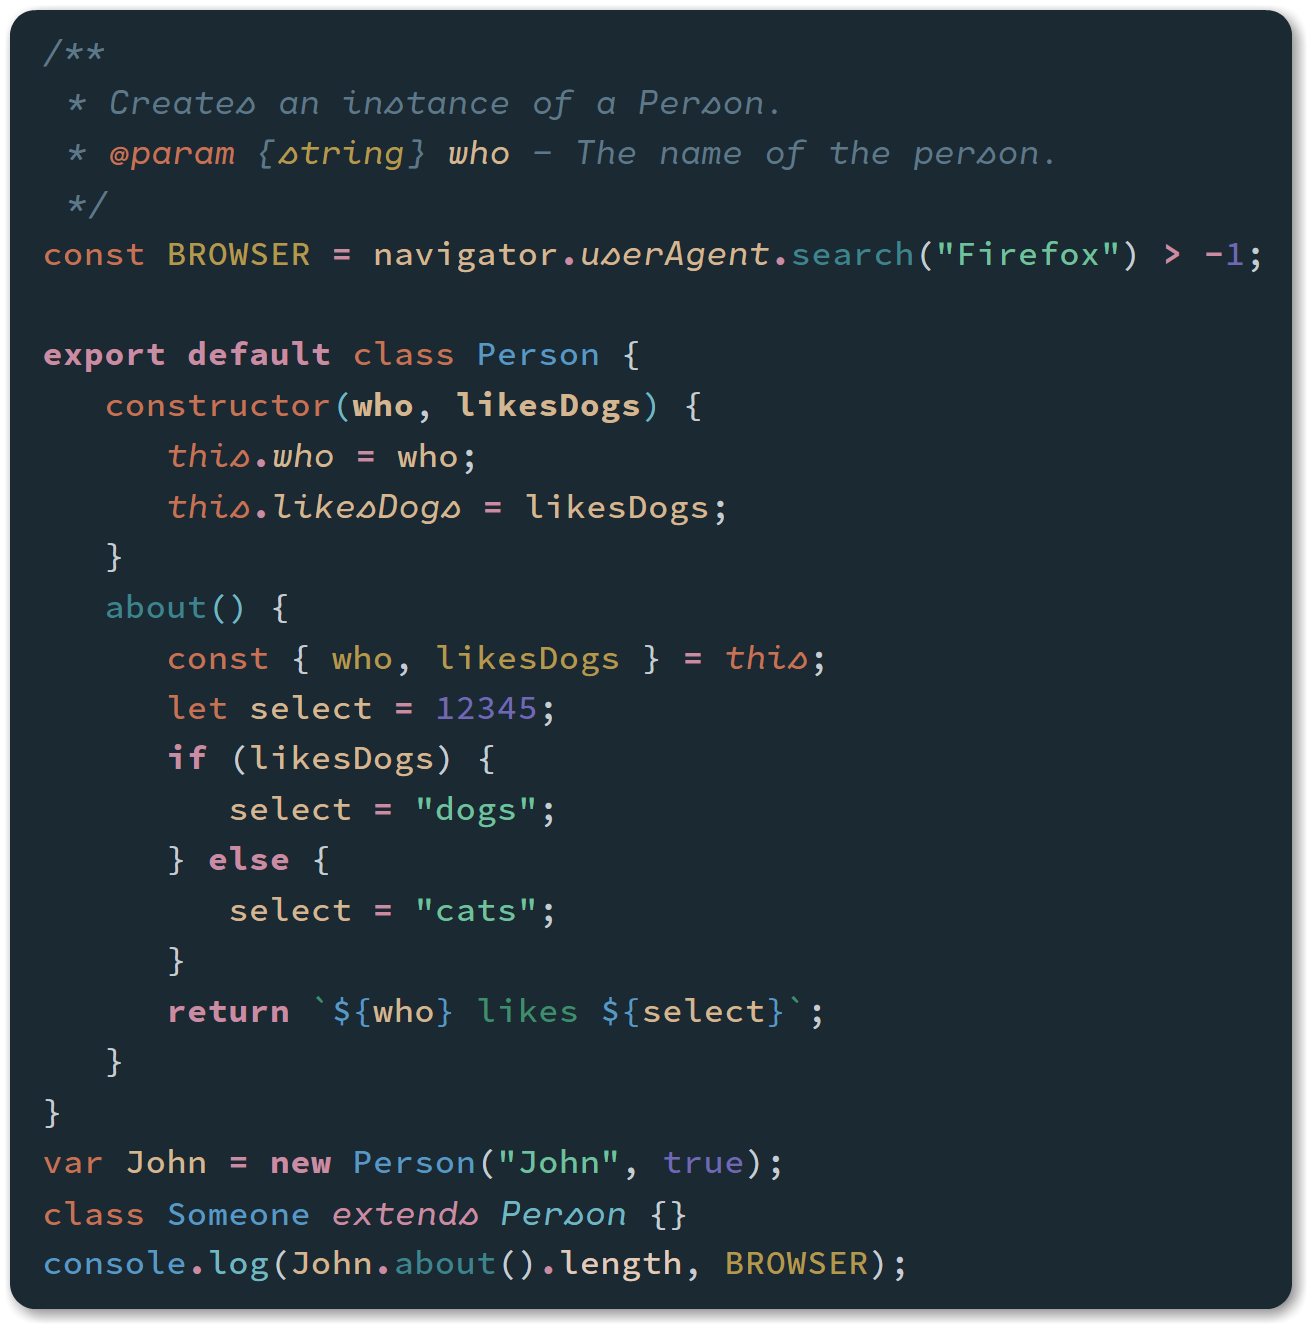
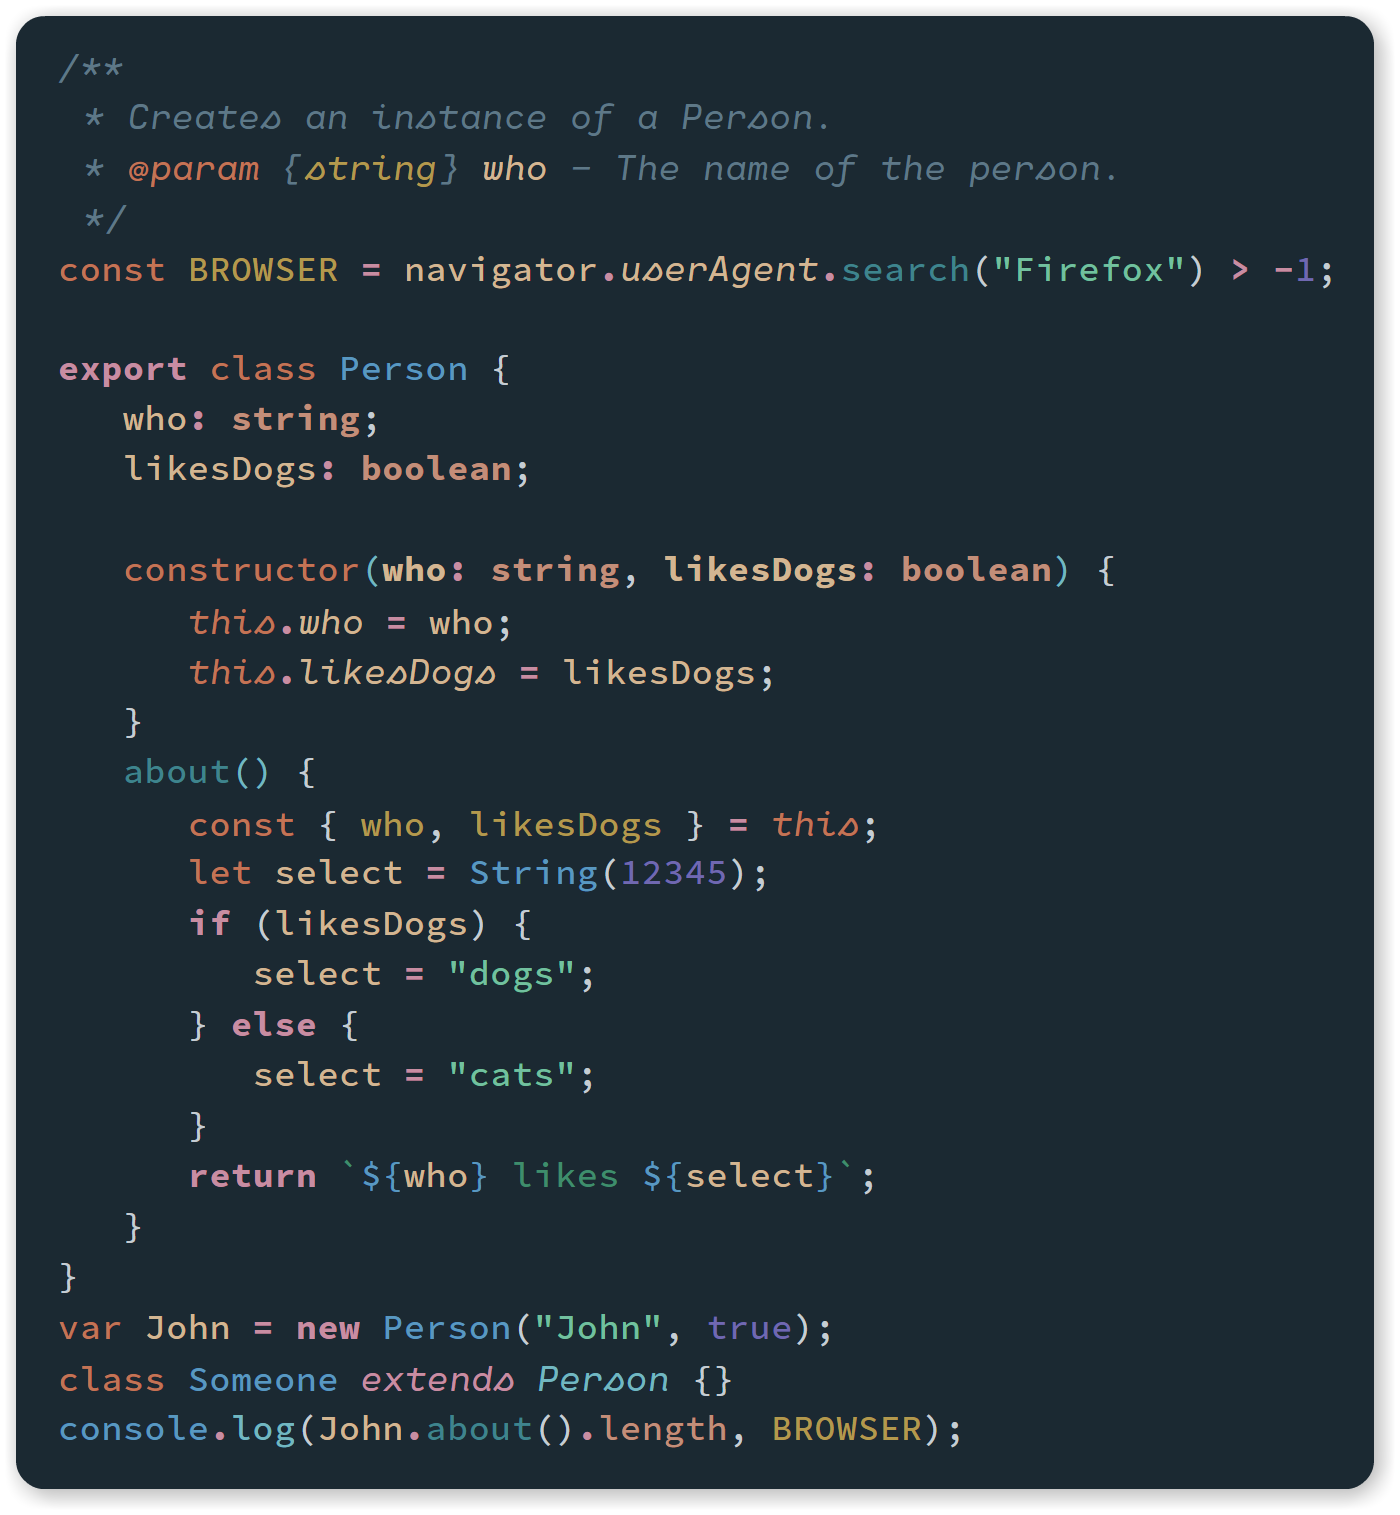
7.11.0

diff --git a/TypeScript.ts b/TypeScript.ts
@@ -1,0 +1,35 @@
+
+
+      /**
+       * Creates an instance of a Person.
+       * @param {string} who - The name of the person.
+       */
+      const BROWSER = navigator.userAgent.search("Firefox") > -1;
+
+      export class Person {
+         who: string;
+         likesDogs: boolean;
+         
+         constructor(who: string, likesDogs: boolean) {
+            this.who = who;
+            this.likesDogs = likesDogs;
+         }
+         about() {
+            const { who, likesDogs } = this;
+            let select = String(12345);
+            if (likesDogs) {
+               select = "dogs";
+            } else {
+               select = "cats";
+            }
+            return `${who} likes ${select}`;
+         }
+      }
+      var John = new Person("John", true);
+      class Someone extends Person {}
+      console.log(John.about().length, BROWSER);
+
+
+
+      console.log(Someone);
+      let a = () => {};

diff --git a/README.md b/README.md
@@ -23,29 +23,31 @@ The _Noctis Lux_ light theme's background is a very saturated very light warm or
 
 <div align="center">
 
-## Noctis Viola &larr; **NEW**
+## Noctis Lux
 
-![Noctis Viola Screenshot](https://github.com/liviuschera/noctis/raw/master/images/noctisViola.png)
-
-## Noctis Minimus &larr; **NEW**
-
-![Noctis Minimus Screenshot](https://github.com/liviuschera/noctis/raw/master/images/noctisMinimus.png)
-
-## Noctis Uva
-
-![Noctis Uva Screenshot](https://github.com/liviuschera/noctis/raw/master/images/NoctisUva.png)
+![Noctis Lux Screenshot](images/noctisLux.png)
 
 ## Noctis
 
-![Noctis Screenshot](https://github.com/liviuschera/noctis/raw/master/images/noctis.png)
+![Noctis Screenshot](images/noctis.png)
 
 ## Noctis Azureus
 
-![Noctis Azureus Screenshot](https://github.com/liviuschera/noctis/raw/master/images/noctisAzureus.png)
+![Noctis Azureus Screenshot](images/noctisAzureus.png)
 
-## Noctis Lux
+## Noctis Minimus
 
-![Noctis Lux Screenshot](https://github.com/liviuschera/noctis/raw/master/images/noctisLux.png)
+![Noctis Minimus Screenshot](images/noctisMinimus.png)
+
+
+
+## Noctis Uva
+
+![Noctis Uva Screenshot](images/NoctisUva.png)
+
+## Noctis Viola
+
+![Noctis Viola Screenshot](images/noctisViola.png)
 
 </div>
 
@@ -125,61 +127,61 @@ The walkthrough is for Windows. I assume that for Unix and MacOS you would have 
 
 ## Syntax colors
 
-The color names were matched to one of the following main color hues: Red, Yellow, Green, Blue, Brown and Grey using the excellent online tools [Color Name & Hue](http://www.color-blindness.com/color-name-hue/) and [Name that Color](http://chir.ag/projects/name-that-color).
+The color names were matched using the excellent online tools [Name that Color](http://chir.ag/projects/name-that-color) and [Color Name & Hue](http://www.color-blindness.com/color-name-hue/)
 
 ### Standard Colors
 
-| Color           | Hue    | Hex Code                                                           | Used for:                                      |
-| --------------- | ------ | ------------------------------------------------------------------ | ---------------------------------------------- |
-| Eucalyptus      | Green  | ![#49e9a6](https://placehold.it/15/49e9a6/000000?text=+) `#49e9a6` | Strings                                        |
-| Mountain Meadow | Green  | ![#16b673](https://placehold.it/15/16b673/000000?text=+) `#16b673` | Interpolated Strings                           |
-| Horizon         | Blue   | ![#5b858b](https://placehold.it/15/5b858b/000000?text=+) `#5b858b` | Comments for default theme                     |
-| Smalt Blue      | Blue   | ![#507b95](https://placehold.it/15/507b95/000000?text=+) `#507b95` | Comments for _Azureus_ variant                 |
-| Kimberly        | Violet | ![#716c93](https://placehold.it/15/716c93/000000?text=+) `#716c93` | Comments for _Uva_ variant                     |
-| Trendy Pink     | Violet | ![#7f659a](https://placehold.it/15/7f659a/000000?text=+) `#7f659a` | Comments for _Viola_ variant                   |
-| Eastern Blue    | Blue   | ![#16a3b6](https://placehold.it/15/16a3b6/000000?text=+) `#16a3b6` | Function Calls                                 |
-| Turcoise        | Blue   | ![#49d6e9](https://placehold.it/15/49d6e9/000000?text=+) `#49d6e9` | Method Calls                                   |
-| Picton Blue     | Blue   | ![#49ace9](https://placehold.it/15/49ace9/000000?text=+) `#49ace9` | Code that needs to stand out                   |
-| Cornflower Blue | Blue   | ![#7060eb](https://placehold.it/15/7060eb/000000?text=+) `#7060eb` | Numbers & Booleans                             |
-| Pale Violet Red | Red    | ![#df769b](https://placehold.it/15/df769b/000000?text=+) `#df769b` | Keywords & Operators                           |
-| Cinnabar        | Orange | ![#e66533](https://placehold.it/15/e66533/000000?text=+) `#e66533` | Function & Variable Declaration, Tags & `this` |
-| Buddha Gold     | Yellow | ![#cc9900](https://placehold.it/15/cc9900/000000?text=+) `#cc9900` | Attributes, Constants & Type annotations       |
-| Gold Sand       | Yellow | ![#e4b781](https://placehold.it/15/e4b781/000000?text=+) `#e4b781` | Variables & Parameters                         |
-| Desert Sand     | Brown  | ![#edc9af](https://placehold.it/15/edc9af/000000?text=+) `#edc9af` | Object properties, ID selectors in CSS         |
+| Color           | Hex Code                                                           | Used for:                                                 |
+| --------------- | ------------------------------------------------------------------ | --------------------------------------------------------- |
+| Eucalyptus      | ![#49e9a6](https://placehold.it/15/49e9a6/000000?text=+) `#49e9a6` | Strings                                                   |
+| Mountain Meadow | ![#16b673](https://placehold.it/15/16b673/000000?text=+) `#16b673` | Interpolated Strings                                      |
+| Horizon         | ![#5b858b](https://placehold.it/15/5b858b/000000?text=+) `#5b858b` | Comments for default theme                                |
+| Smalt Blue      | ![#507b95](https://placehold.it/15/507b95/000000?text=+) `#507b95` | Comments for _Azureus_ variant                            |
+| Kimberly        | ![#716c93](https://placehold.it/15/716c93/000000?text=+) `#716c93` | Comments for _Uva_ variant                                |
+| Trendy Pink     | ![#7f659a](https://placehold.it/15/7f659a/000000?text=+) `#7f659a` | Comments for _Viola_ variant                              |
+| Eastern Blue    | ![#16a3b6](https://placehold.it/15/16a3b6/000000?text=+) `#16a3b6` | Function Calls                                            |
+| Turcoise        | ![#49d6e9](https://placehold.it/15/49d6e9/000000?text=+) `#49d6e9` | Method Calls                                              |
+| Picton Blue     | ![#49ace9](https://placehold.it/15/49ace9/000000?text=+) `#49ace9` | Code that needs to stand out                              |
+| Cornflower Blue | ![#7060eb](https://placehold.it/15/7060eb/000000?text=+) `#7060eb` | Numbers & Booleans                                        |
+| Pale Violet Red | ![#df769b](https://placehold.it/15/df769b/000000?text=+) `#df769b` | Keywords & Operators                                      |
+| Cinnabar        | ![#e66533](https://placehold.it/15/e66533/000000?text=+) `#e66533` | Function & Variable Declaration, Tags & `this`            |
+| Japonica        | ![#d67e5c](https://placehold.it/15/d67e5c/000000?text=+) `#d67e5c` | Object properties, ID selectors in CSS & Type annotations |
+| Galliano        | ![#d5971a](https://placehold.it/15/d5971a/000000?text=+) `#d5971a` | Attributes, Constants                                     |
+| Gold Sand       | ![#e4b781](https://placehold.it/15/e4b781/000000?text=+) `#e4b781` | Variables & Parameters                                    |
 
 ### Minimus Colors
 
-| Color         | Hue    | Hex Code                                                           | Used for:                                      |
-| ------------- | ------ | ------------------------------------------------------------------ | ---------------------------------------------- |
-| Silver Tree   | Green  | ![#70c27f](https://placehold.it/15/70c27f/000000?text=+) `#70c27f` | Strings                                        |
-| Viridian      | Green  | ![#3f8d6c](https://placehold.it/15/3f8d6c/000000?text=+) `#3f8d6c` | Interpolated Strings                           |
-| Hoki          | Blue   | ![#5e7887](https://placehold.it/15/5e7887/000000?text=+) `#5e7887` | Comments                                       |
-| Ming          | Blue   | ![#3f848d](https://placehold.it/15/3f848d/000000?text=+) `#3f848d` | Function Calls                                 |
-| Glacier       | Blue   | ![#72b7c0](https://placehold.it/15/72b7c0/000000?text=+) `#72b7c0` | Method Calls                                   |
-| Fountain Blue | Blue   | ![#5998c0](https://placehold.it/15/5998c0/000000?text=+) `#5998c0` | Code that needs to stand out                   |
-| Chetwode Blue | Blue   | ![#7068B1](https://placehold.it/15/7068B1/000000?text=+) `#7068B1` | Numbers & Booleans                             |
-| Viola         | Red    | ![#c88da2](https://placehold.it/15/c88da2/000000?text=+) `#c88da2` | Keywords & Operators                           |
-| Antique Brass | Orange | ![#c37455](https://placehold.it/15/c37455/000000?text=+) `#c37455` | Function & Variable Declaration, Tags & `this` |
-| Husk          | Yellow | ![#b3994d](https://placehold.it/15/b3994d/000000?text=+) `#b3994d` | Attributes, Constants & Type annotations       |
-| Tan           | Brown  | ![#d3b692](https://placehold.it/15/d3b692/000000?text=+) `#d3b692` | Variables & Parameters                         |
-| Dust Storm    | Orange | ![#e1cbbc](https://placehold.it/15/e1cbbc/000000?text=+) `#e1cbbc` | Object properties, ID selectors in CSS         |
+| Color         | Hex Code                                                           | Used for:                                                 |
+| ------------- | ------------------------------------------------------------------ | --------------------------------------------------------- |
+| Silver Tree   | ![#70c27f](https://placehold.it/15/70c27f/000000?text=+) `#70c27f` | Strings                                                   |
+| Viridian      | ![#3f8d6c](https://placehold.it/15/3f8d6c/000000?text=+) `#3f8d6c` | Interpolated Strings                                      |
+| Hoki          | ![#5e7887](https://placehold.it/15/5e7887/000000?text=+) `#5e7887` | Comments                                                  |
+| Ming          | ![#3f848d](https://placehold.it/15/3f848d/000000?text=+) `#3f848d` | Function Calls                                            |
+| Glacier       | ![#72b7c0](https://placehold.it/15/72b7c0/000000?text=+) `#72b7c0` | Method Calls                                              |
+| Fountain Blue | ![#5998c0](https://placehold.it/15/5998c0/000000?text=+) `#5998c0` | Code that needs to stand out                              |
+| Chetwode Blue | ![#7068B1](https://placehold.it/15/7068B1/000000?text=+) `#7068B1` | Numbers & Booleans                                        |
+| Viola         | ![#c88da2](https://placehold.it/15/c88da2/000000?text=+) `#c88da2` | Keywords & Operators                                      |
+| Antique Brass | ![#c37455](https://placehold.it/15/c37455/000000?text=+) `#c37455` | Function & Variable Declaration, Tags & `this`            |
+| Old Rose      | ![#c38e79](https://placehold.it/15/c38e79/000000?text=+) `#c38e79` | Object properties, ID selectors in CSS & Type annotations |
+| Husk          | ![#b3994d](https://placehold.it/15/b3994d/000000?text=+) `#b3994d` | Attributes, Constants                                     |
+| Tan           | ![#d3b692](https://placehold.it/15/d3b692/000000?text=+) `#d3b692` | Variables & Parameters                                    |
 
 ### Lux Colors
 
-| Color            | Hue    | Hex Code                                                           | Used for:                                      |
-| ---------------- | ------ | ------------------------------------------------------------------ | ---------------------------------------------- |
-| Jade             | Green  | ![#00b368](https://placehold.it/15/00b368/000000?text=+) `#00b368` | Strings                                        |
-| Green Haze       | Green  | ![#009456](https://placehold.it/15/009456/000000?text=+) `#009456` | Interpolated Strings                           |
-| Cascade          | Green  | ![#8ca6a6](https://placehold.it/15/8ca6a6/000000?text=+) `#8ca6a6` | Comments                                       |
-| Bondi Blue       | Blue   | ![#0095a8](https://placehold.it/15/0095a8/000000?text=+) `#0095a8` | Function Calls                                 |
-| Robin's Egg Blue | Blue   | ![#00bdd6](https://placehold.it/15/00bdd6/000000?text=+) `#00bdd6` | Method Calls                                   |
-| Azure Radiance   | Blue   | ![#0094f0](https://placehold.it/15/0094f0/000000?text=+) `#0094f0` | Code that needs to stand out                   |
-| Electric Violet  | Blue   | ![#5842ff](https://placehold.it/15/5842ff/000000?text=+) `#5842ff` | Numbers & Booleans                             |
-| PBrink Pink      | Red    | ![#ff5792](https://placehold.it/15/ff5792/000000?text=+) `#ff5792` | Keywords & Operators                           |
-| Grenadier        | Orange | ![#d13b00](https://placehold.it/15/d13b00/000000?text=+) `#d13b00` | Function & Variable Declaration, Tags & `this` |
-| Pirate Gold      | Yellow | ![#b38600](https://placehold.it/15/b38600/000000?text=+) `#b38600` | Attributes, Constants & Type annotations       |
-| Carrot Orange    | Orange | ![#ee962b](https://placehold.it/15/ee962b/000000?text=+) `#ee962b` | Variables & Parameters                         |
-| Reno Sand        | Brown  | ![#a86615](https://placehold.it/15/a86615/000000?text=+) `#a86615` | Object properties, ID selectors in CSS         |
+| Color            | Hex Code                                                           | Used for:                                                 |
+| ---------------- | ------------------------------------------------------------------ | --------------------------------------------------------- |
+| Jade             | ![#00b368](https://placehold.it/15/00b368/000000?text=+) `#00b368` | Strings                                                   |
+| Green Haze       | ![#009456](https://placehold.it/15/009456/000000?text=+) `#009456` | Interpolated Strings                                      |
+| Cascade          | ![#8ca6a6](https://placehold.it/15/8ca6a6/000000?text=+) `#8ca6a6` | Comments                                                  |
+| Bondi Blue       | ![#0095a8](https://placehold.it/15/0095a8/000000?text=+) `#0095a8` | Function Calls                                            |
+| Robin's Egg Blue | ![#00bdd6](https://placehold.it/15/00bdd6/000000?text=+) `#00bdd6` | Method Calls                                              |
+| Azure Radiance   | ![#0094f0](https://placehold.it/15/0094f0/000000?text=+) `#0094f0` | Code that needs to stand out                              |
+| Electric Violet  | ![#5842ff](https://placehold.it/15/5842ff/000000?text=+) `#5842ff` | Numbers & Booleans                                        |
+| PBrink Pink      | ![#ff5792](https://placehold.it/15/ff5792/000000?text=+) `#ff5792` | Keywords & Operators                                      |
+| Tenne            | ![#ff5b1a](https://placehold.it/15/ff5b1a/000000?text=+) `#ff5b1a` | Function & Variable Declaration, Tags & `this`            |
+| Flame Pea        | ![#bf6440](https://placehold.it/15/bf6440/000000?text=+) `#bf6440` | Object properties, ID selectors in CSS & Type annotations |
+| Pirate Gold      | ![#b38600](https://placehold.it/15/b38600/000000?text=+) `#b38600` | Attributes, Constants                                     |
+| Dark Orange      | ![#ff8c00](https://placehold.it/15/ff8c00/000000?text=+) `#ff8c00` | Variables & Parameters                                    |
 
 ## Installation
 

diff --git a/CHANGELOG.md b/CHANGELOG.md
@@ -1,5 +1,20 @@
 # Change Log
 
+## **7.11.0**
+
+-  _Noctis Lux_
+   -  Carrot Orange `#ee962b` &rarr; Dark Orange
+      `#ff8c00` - changed
+   -  Reno Sand `#a86615` &rarr; Flame Pea
+      `#bf6440` - changed
+   -  Grenadier `#d13b00` &rarr; Tenne `#ff5b1a` - changed
+-  _Noctis Minimus_
+   -  Dust Storm `#e1cbbc` &rarr; Old Rose `#c38e79` - changed
+-  _Rest of the themes_
+   -  Desert Sand `#edc9af` &rarr; Japonica `#d67e5c` - changed
+   -  Buddha Gold `#cc9900` &rarr; Galliano `#d5971a` - changed
+-  **TypeScript** & **Python** &rarr; type annotation are now highlighted with Galliano/Old Rose/Flame Pea and normal font style
+
 ## **7.10.1**
 
 -  **TypeScript** &rarr; fixed punctuation decorator
